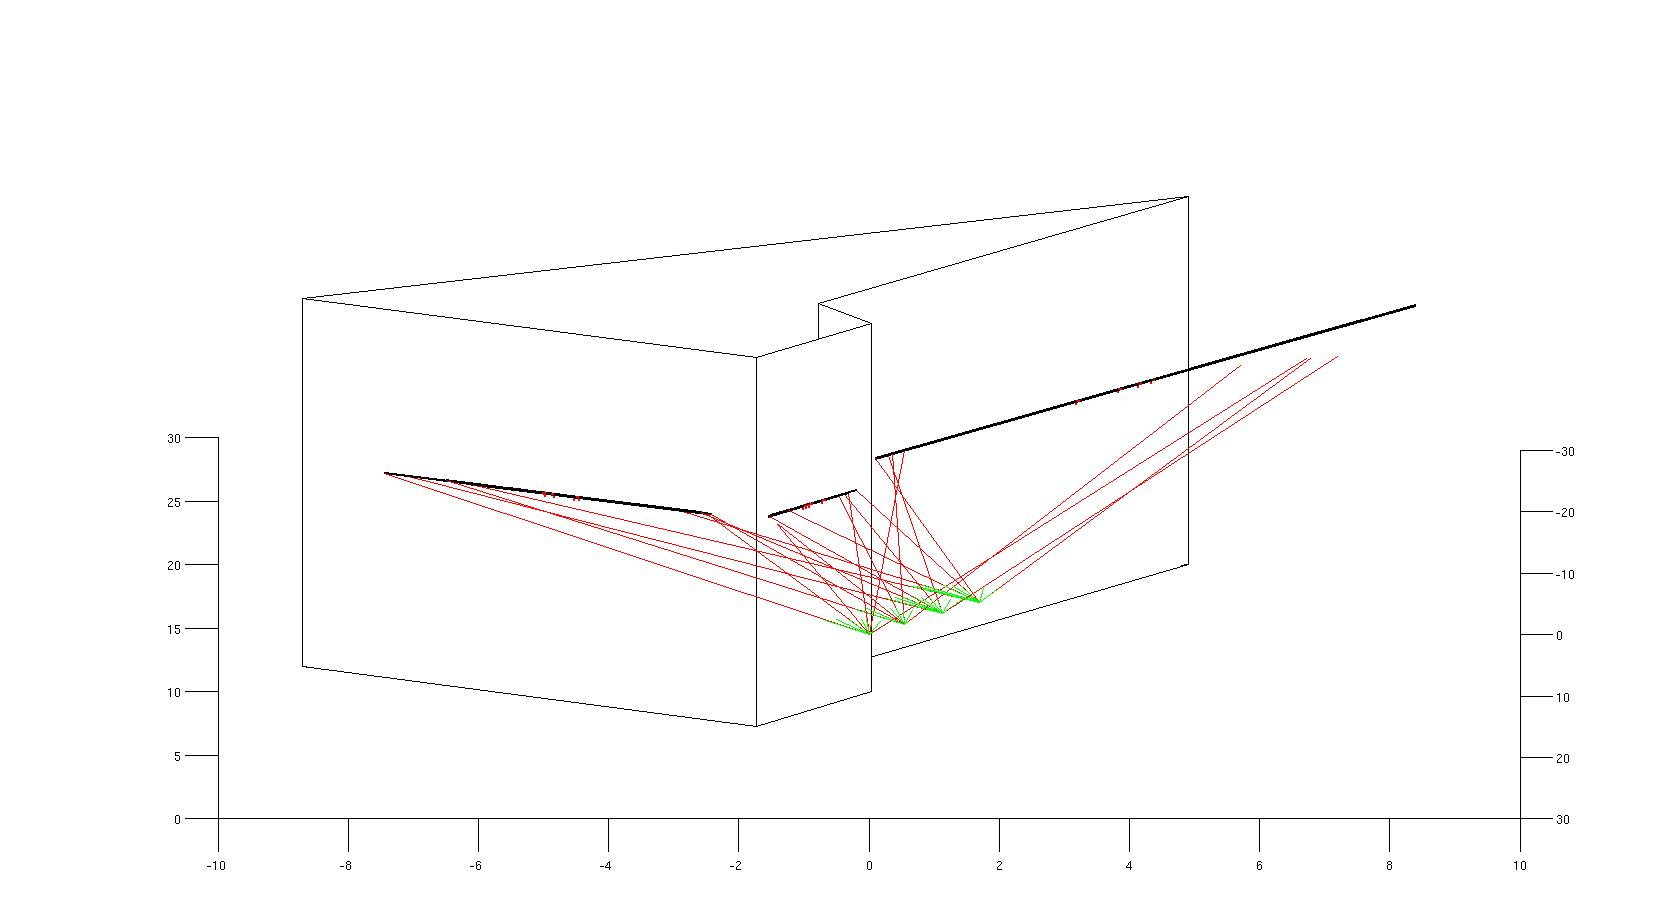
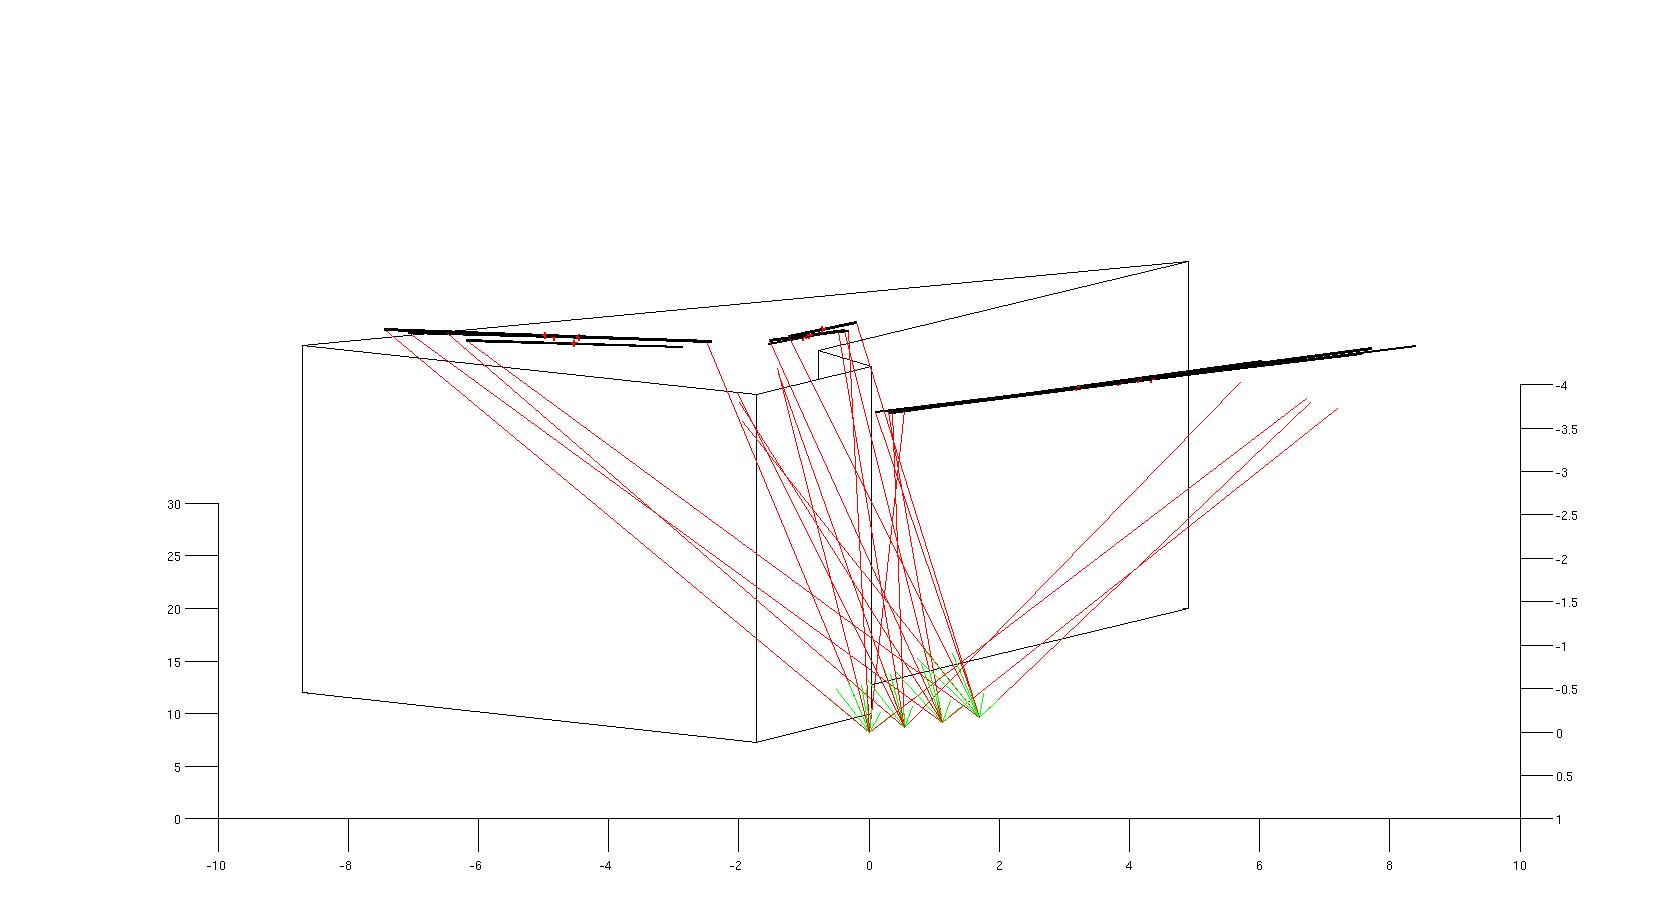
a

Changed region(s): [[0.2167, 0.3348, 0.8357, 0.7913], [0.3095, 0.4261, 0.3405, 0.487], [0.7119, 0.5174, 0.7429, 0.5478]]

diff --git a/plot/plotBuilding.m b/plot/plotBuilding.m
@@ -1,4 +1,5 @@
-function plotBuilding(Walls, interestingWalls)
+function figBuilding = plotBuilding(Walls, interestingWalls)
+figBuilding  = figure();
 hold on;
 
 % change order of the cornerpoints of the wall so the polygons (walls) are plotted right
@@ -17,7 +18,7 @@ for wall=1:size(WallsNew,1)
 	end
 	C = ones(1,4);
 	% draw wall
-	color1 = 'w';
+	color1 = 'b';
 	if wall==7
 		fill3(X,Y,Z,color1);
 	elseif wall==9

diff --git a/improveBuilding/improveBuilding.m b/improveBuilding/improveBuilding.m
@@ -4,7 +4,6 @@ close all;
 clear Houghlines3dWall
 clear HeightBuildingWall
 load Houghlines3dWall
-%load Walls
 load WallsPc
 Walls=WallsPc
 
@@ -17,7 +16,7 @@ interestingWalls = [1, 2, 4];
 
 % all walls
 %for wall = 1:length(Houghlines3dWall)
-for i = 1:size(interestingWalls,1)
+for i = 1:length(interestingWalls)
 	wall = interestingWalls(i);
 	sum = [0 0 0];
 	wall

diff --git a/align3dModel/align3dModel.m b/align3dModel/align3dModel.m
@@ -13,7 +13,7 @@ Z = [11.9792, 7.2957, 9.9875, 11.5275, 19.991];
 %plot(X,Y,'k+-','MarkerSize',10);
 
 yGround = 1;
-yAir = -3.5;	
+yAir = -3;	
 WallsPc = generateWallsFromCornerPoints(X,Z, yGround,yAir);
 save('../mats/WallsPc.mat','WallsPc');
 

diff --git a/project2d/project2d.m b/project2d/project2d.m
@@ -2,10 +2,8 @@
 close all;
 load PcamAbs;	
 
-% load WallsImproved;
-% Walls = WallsImproved;
-load WallsPc
-Walls=WallsPc
+load WallsImproved;
+Walls = WallsImproved;
 
 load Kcanon10GOOD;
 
